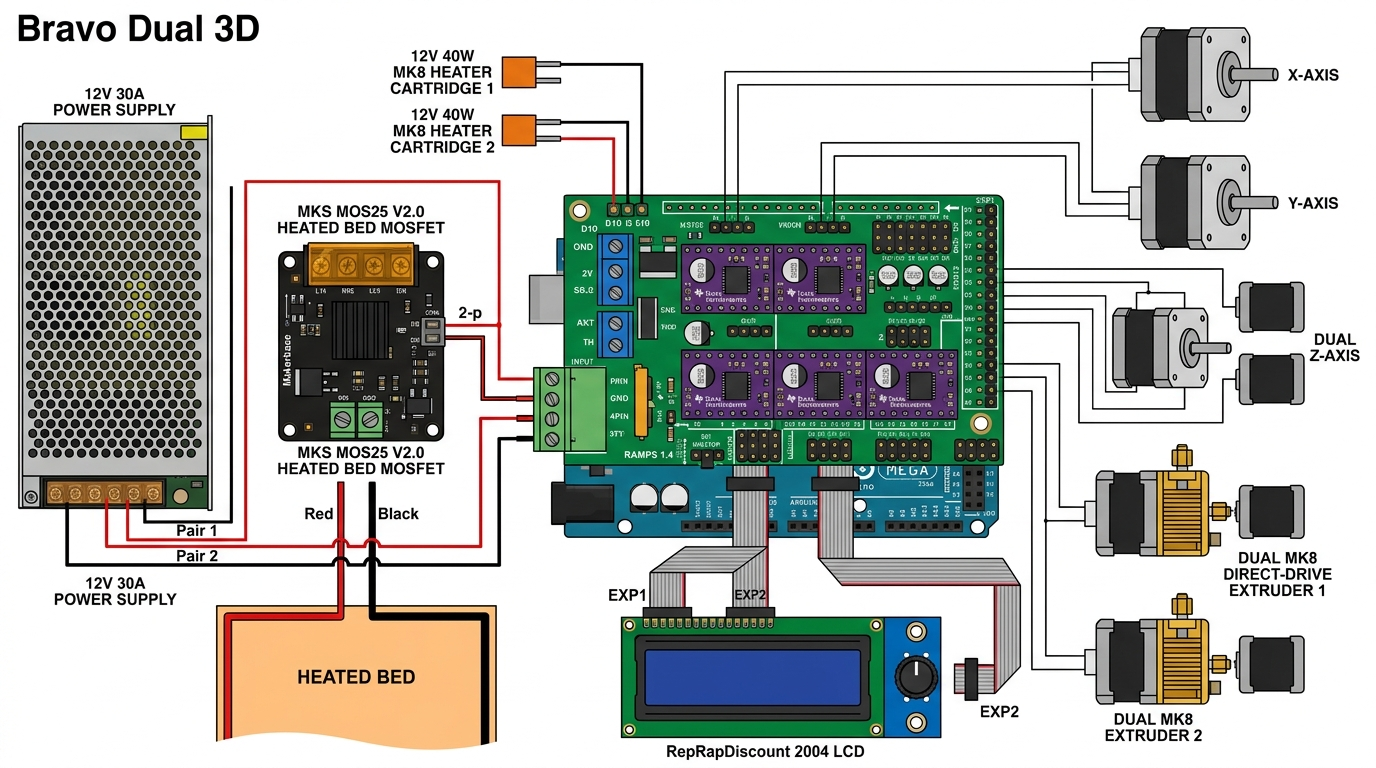
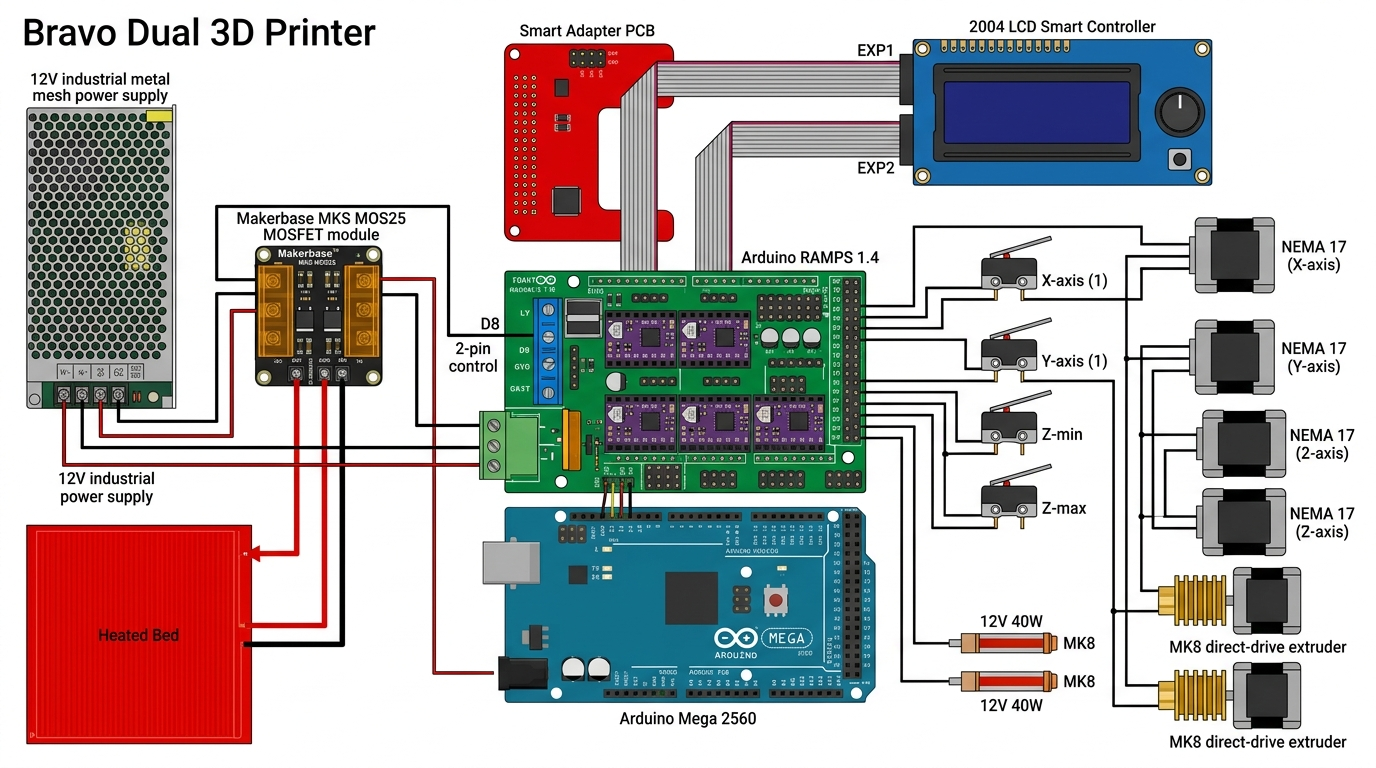
Update circuit diagram v3 with Red Smart Adapter and 4 confirmed mechanical limit switches (X, Y, Z-min, Z-max)

diff --git a/wiring_and_circuits.md b/wiring_and_circuits.md
@@ -85,22 +85,35 @@ Located in the 6-pin bank marked `T0`, `T1`, `T2`:
 
 ---
 
-## 5. Endstops (Limit Switches - 3-Pin Headers)
+## 5. Endstops (Confirmed 4 Mechanical Limit Switches)
 
-Located on the top-right edge in a 3×6 pin grid (Signal, GND, VCC). Standard 3D printers only use **Signal** and **GND**:
+Your printer features **4 snap-action mechanical limit switches** (kill switches) for axis homing and travel limits, plugged into the 3×6 endstop header pins on the top-right of RAMPS:
 
-| Header | Axis | Default Trigger State |
-| :--- | :--- | :--- |
-| **X-Min** | X Axis Left Home | Triggered when carriage hits left limit switch |
-| **Y-Min** | Y Axis Bed Front Home | Triggered when bed moves to front switch |
-| **Z-Min** | Z Axis Bed Bottom Home | Triggered when nozzle reaches bed height |
+| Endstop Switch | Location on Machine | RAMPS Pin Header | Function |
+| :--- | :--- | :--- | :--- |
+| **X-Min (1)** | X-Axis Left Carriage | `X-MIN` (Pin 3) | Homes X axis to 0.00 mm (Triggered at home) |
+| **Y-Min (1)** | Y-Axis Front Bed Frame | `Y-MIN` (Pin 14) | Homes Y axis to 0.00 mm (Triggered at home) |
+| **Z-Min (1)** | Z-Axis Lower Gantry | `Z-MIN` (Pin 18) | Sets nozzle bed height reference (0.00 mm) |
+| **Z-Max (1)** | Z-Axis Upper Top Frame | `Z-MAX` (Pin 19) | Emergency upper height ceiling / dual-Z alignment |
 
 ---
 
-## 6. LCD & SD Card Display Ribbon Cables
+## 6. LCD & SD Card Display Wiring (Red L-Shaped Smart Adapter)
 
-The **RepRapDiscount 2004 Smart Controller** connects via the L-shaped "Smart Adapter" plugged into the AUX-3 and AUX-4 headers:
+The **RepRapDiscount 2004 Smart Controller** connects directly to the top of the RAMPS board via its dedicated **Red L-Shaped Smart Adapter PCB**:
 
-* **EXP1 Ribbon Cable:** Drives the LCD text display, rotary encoder knob, and beeper.
-* **EXP2 Ribbon Cable:** Drives the full-size SD card reader SPI bus (MISO, MOSI, SCK, CS) and the Stop/Kill button.
-* *Note:* If the LCD lights up blue but displays no text, EXP1 and EXP2 are plugged in reversed.
+```
+[ LCD 2004 Display Board ]
+          │
+          ├── [ EXP1 Ribbon Cable ] ──► Top Socket on Red Smart Adapter ──► (LCD Text, Knob, Buzzer)
+          └── [ EXP2 Ribbon Cable ] ──► Bottom Socket on Red Smart Adapter ──► (SD Card SPI, Reset Button)
+                                                 │
+                                                 ▼
+                              [ Red L-Shaped Smart Adapter PCB ]
+                                                 │ (Plugs directly on top of)
+                              [ RAMPS 1.4 AUX-3 & AUX-4 Headers ]
+```
+
+* **EXP1 Ribbon Cable:** Drives the 20×4 LCD text display, rotary click knob, and piezo beeper.
+* **EXP2 Ribbon Cable:** Drives the full-size SD card reader SPI bus (MISO, MOSI, SCK, CS) and emergency Stop button.
+* *Note:* If the LCD screen lights up blue but shows no text, the EXP1 and EXP2 cables are plugged in reversed.
